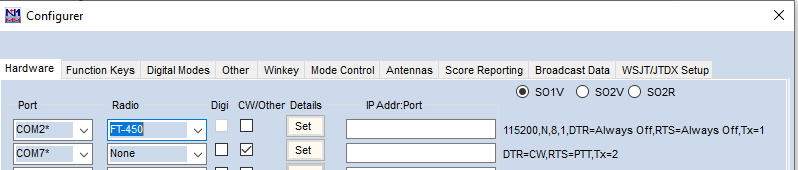
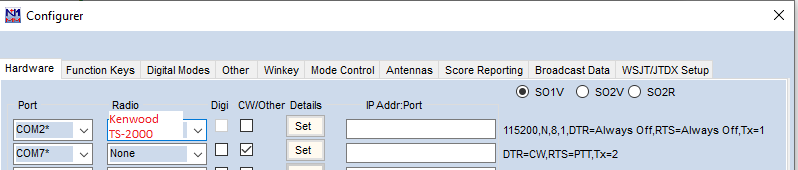
Update defaults

Changed region(s): [[0.1203, 0.6471, 0.2406, 0.8235]]

diff --git a/STM32/Src/settings.c b/STM32/Src/settings.c
@@ -271,7 +271,7 @@ void LoadSettings(bool clear)
 		TRX.FM_LPF_TX_Filter = 8000;		 // default value of the FM filter width
 		TRX.Beeper = true;					 // Keyboard beeper
 		TRX.CTCSS_Freq = 0;					 // CTCSS FM Frequency
-		TRX.SELFHEAR_Volume = 50;			 // Selfhearing volume
+		TRX.SELFHEAR_Volume = 15;			 // Selfhearing volume
 		TRX.FM_Stereo = false;				 // Stereo FM Mode
 		TRX.VAD_THRESHOLD = 150;				//Threshold of SSB/SCAN squelch
 		TRX.VOX = false;							//TX by voice activation
@@ -650,9 +650,9 @@ void LoadCalibration(bool clear)
 		CALIBRATE.FW_AD8307_OFFS = 1150.0f;		// Offset to back calculate the output voltage to dBm (mV)
 		CALIBRATE.BW_AD8307_SLP = 25.5f;		// Slope for the log amp used to mreasure the BW power (mV/dB)
 		CALIBRATE.BW_AD8307_OFFS = 1150.0f;		// Offset to back calculate the output voltage to dBm (mV)
-		CALIBRATE.FAN_MEDIUM_START = 50;		// Temperature at which the fan starts at half power
+		CALIBRATE.FAN_MEDIUM_START = 55;		// Temperature at which the fan starts at half power
 		CALIBRATE.FAN_MEDIUM_STOP = 40;			// Temperature at which the fan stops
-		CALIBRATE.FAN_FULL_START = 70;			// Temperature at which the fan starts at full power
+		CALIBRATE.FAN_FULL_START = 55;			// Temperature at which the fan starts at full power
 		CALIBRATE.TRX_MAX_RF_TEMP = 80;			// Maximum RF unit themperature to enable protect
 		CALIBRATE.TRX_MAX_SWR = 3;				// Maximum SWR to enable protect on TX (NOT IN TUNE MODE!)
 		CALIBRATE.FM_DEVIATION_SCALE = 4;		// FM Deviation scale
@@ -711,7 +711,7 @@ void LoadCalibration(bool clear)
 		CALIBRATE.PWR_VLT_Calibration = 1000.0f; // VLT meter calibration
 		CALIBRATE.PWR_CUR_Calibration = 2.5f;	// CUR meter calibration
 		CALIBRATE.ATU_AVERAGING = 3;			 // Tuner averaging stages
-		CALIBRATE.CAT_Type = CAT_FT450;
+		CALIBRATE.CAT_Type = CAT_TS2000;
 		CALIBRATE.LNA_compensation = 0; // Compensation for LNA, db
 		CALIBRATE.TwoSignalTune_Balance = 50; //balance of signals on twosignal-tune
 		CALIBRATE.LinearPowerControl = false; //linear or logrithmic power control
